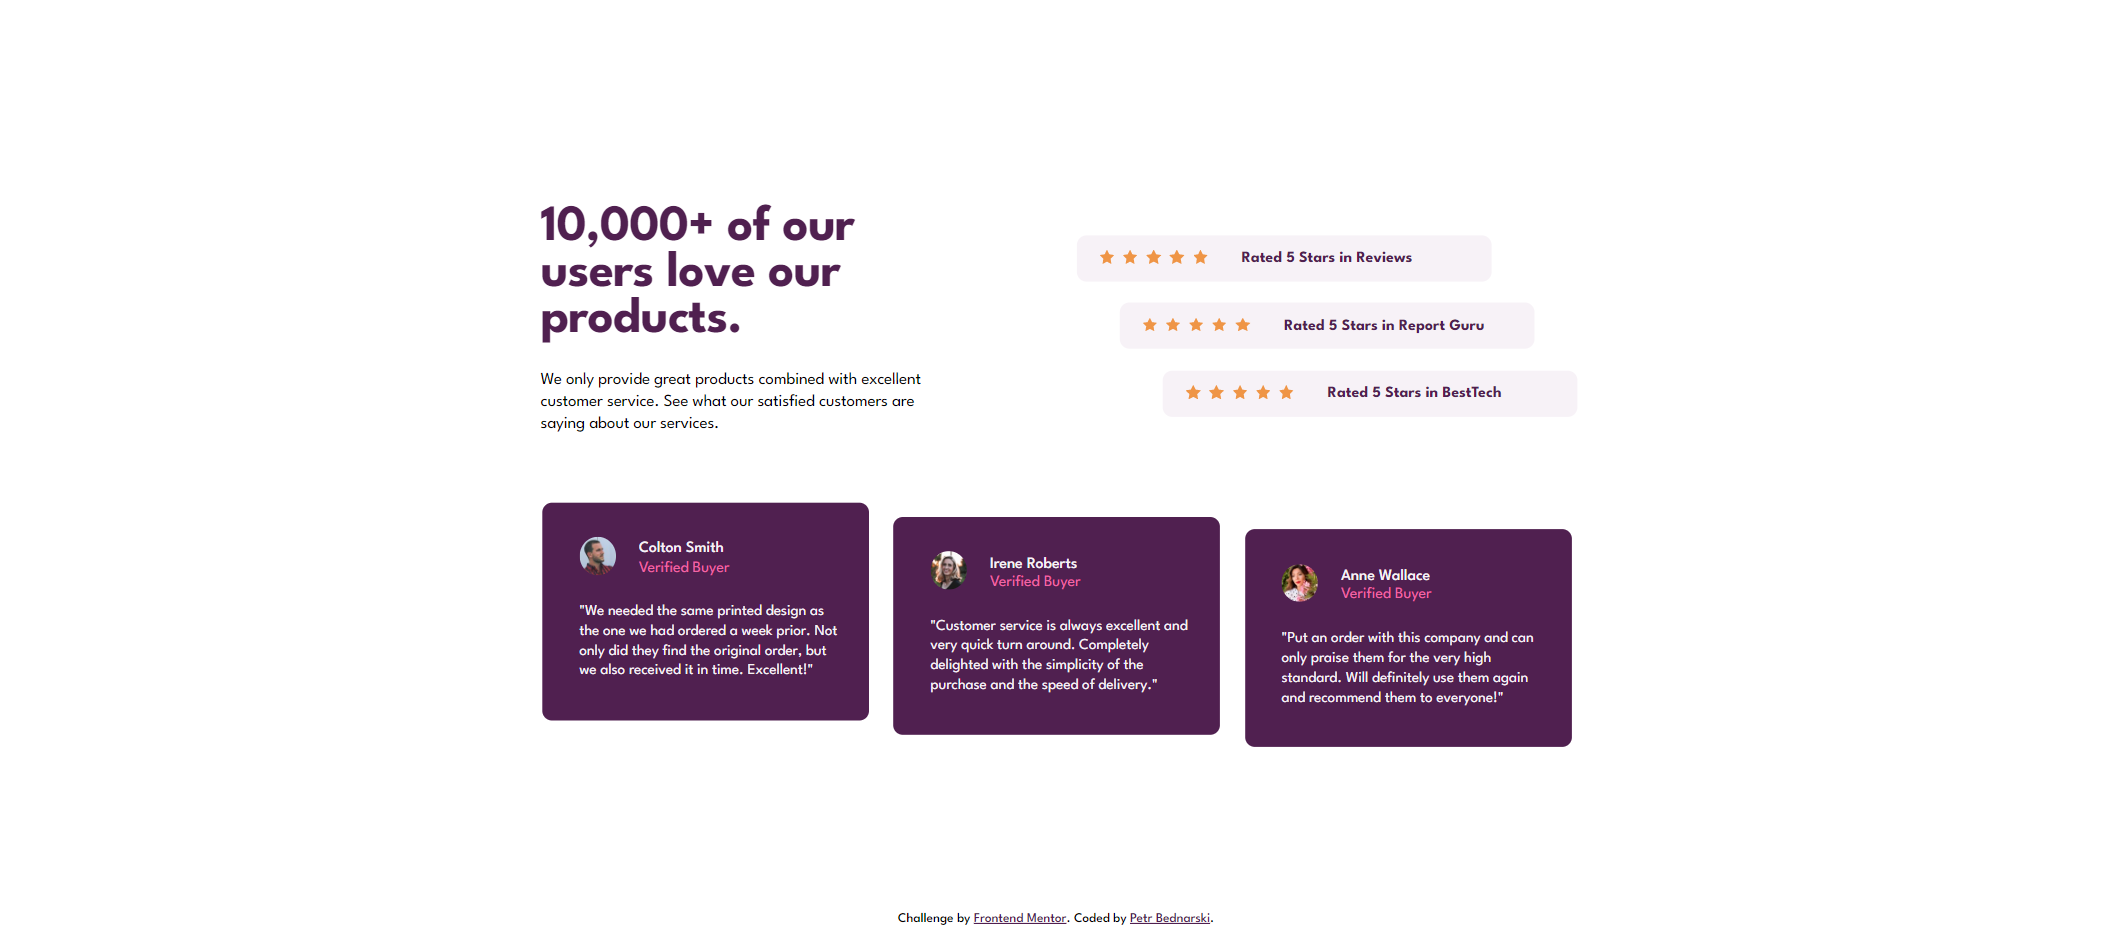
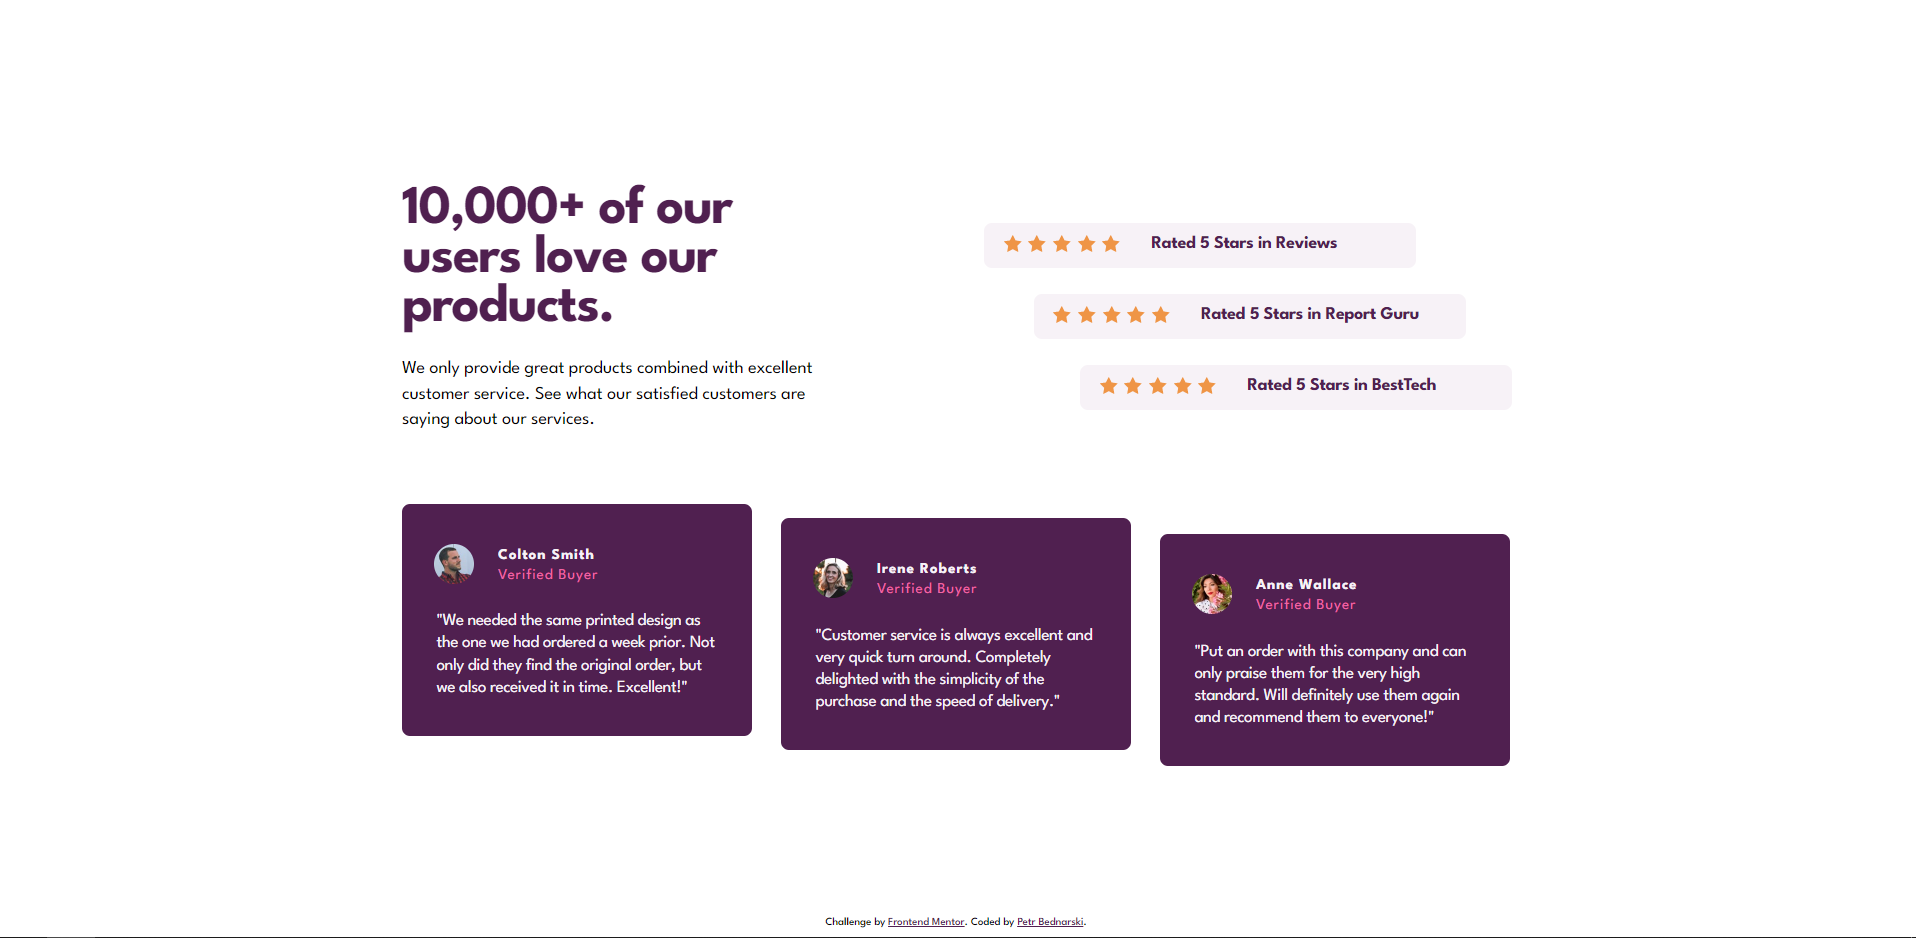
Add files via upload

diff --git a/style.css b/style.css
@@ -25,21 +25,30 @@ body {
   font-weight: 400;
   position: relative;
 }
+/* 
+.container::before {
+  background: url('design/desktop-design.jpg');
+  background-position: center;
+  content: '';
+  top: 0;
+  left: 0;
+  position: absolute;
+  z-index: -9;
+  height: 100%;
+  width: 100%;
+  opacity: 0.55;
+  border: 1px solid green;
+} */
 
 .container {
   width: 1108px;
   height: 581px;
-  position: relative;
-}
-
-.wrapper {
-  padding: 4rem 7.2rem;
+  position: absolute;
 }
 
 .top-part {
   display: grid;
   grid-template-columns: 1fr 1.5fr;
-  padding: 0.51rem 0.8rem;
 }
 
 .heading {
@@ -49,14 +58,16 @@ body {
 
 .heading h1 {
   color: var(--very-dark-magenta);
-  font-size: 42px;
-  margin-bottom: 1.3rem;
-  letter-spacing: -0.6px;
+  font-size: 55px;
+  margin-top: 0.5rem;
+  margin-bottom: 1.46rem;
+  letter-spacing: -1.5px;
+  line-height: 0.89;
 }
 
 .heading p {
-  font-size: 14px;
-  line-height: 1.31;
+  font-size: 18.2px;
+  line-height: 1.4;
   letter-spacing: -0.1px;
 }
 
@@ -65,79 +76,88 @@ body {
 }
 
 .rating-box {
-  width: 74%;
+  width: 70%;
   display: flex;
-  align-items: center;
+  align-items: flex-start;
   justify-content: left;
-  column-gap: 1.5rem;
-  font-size: 13px;
+  column-gap: 1.8rem;
+  font-size: 18px;
   background: var(--light-grayish-magenta);
   padding: 0.75rem 1.2rem;
   border-radius: 0.5rem;
-  margin-bottom: 1.12rem;
-  margin-left: 3.4rem;
+  margin-bottom: 1.65rem;
+  margin-left: 5.7rem;
 }
 
 .rating-box:nth-child(1) {
-  margin-top: 1.6rem;
+  margin-top: 2.8rem;
 }
 
 .rating-box:nth-child(2) {
-  margin-left: 5.6rem;
+  margin-left: 8.8rem;
 }
 
 .rating-box:nth-child(3) {
-  margin-left: 7.85rem;
+  margin-left: 11.7rem;
 }
 
 .rating-box span img {
-  width: 12px;
-  margin-right: 4px;
+  width: 18px;
+  margin-right: 2.2px;
 }
 
 .rating-box p {
   font-weight: 700;
   color: var(--very-dark-magenta);
+  letter-spacing: -0.4px;
 }
 
 .bottom-part {
   display: flex;
   margin-top: 3rem;
-  column-gap: 1rem;
   justify-content: space-between;
 }
 
 .testimonial-box {
-  padding: 1.78rem 1.5rem;
+  padding: 2.5rem 1.6rem;
   background-color: var(--very-dark-magenta);
   border-radius: 0.5rem;
-  width: 270px;
-  height: 180px;
+  width: 350px;
+  height: 232px;
   font-size: 13px;
 }
 
 .testimonial-box:nth-child(1) {
-  margin-left: 0.9rem;
-  margin-top: -0.2rem;
+  margin-top: 1.2rem;
 }
 .testimonial-box:nth-child(2) {
-  margin-top: 0.55rem;
+  margin-top: 2.1rem;
 }
 .testimonial-box:nth-child(3) {
-  margin-top: 1.2rem;
-  margin-right: 0.8rem;
+  margin-top: 3.1rem;
 }
 
 .testimonial-author {
   display: flex;
-  column-gap: 1.2rem;
-  margin-bottom: 1.4rem;
+  column-gap: 1.5rem;
+  margin-bottom: 1.65rem;
   margin-left: 0.4rem;
 }
 
 .testimonial-author-info {
   display: flex;
   flex-direction: column;
+  font-size: 15px;
+  letter-spacing: 1px;
+}
+
+.testmionial-author-name {
+  color: var(--light-grayish-magenta);
+  font-weight: 700;
+  margin: 4px 0 6px;
+}
+.testmionial-author-position {
+  color: var(--soft-pink);
 }
 
 .testimonial-text {
@@ -145,21 +165,15 @@ body {
   font-weight: 400;
   line-height: 1.3;
   margin-left: 0.4rem;
-  font-size: 12.5px;
-}
-
-.testmionial-author-name {
-  color: var(--light-grayish-magenta);
-  font-weight: 500;
-  margin: 4px 0;
-}
-.testmionial-author-position {
-  color: var(--soft-pink);
+  font-size: 17px;
+  padding-right: 0.3rem;
+  padding-left: 0.15rem;
+  letter-spacing: -0.3px;
 }
 
 .testimonial-author img {
   border-radius: 50%;
-  max-width: 30px;
+  max-width: 40px;
 }
 
 .attribution {
@@ -199,7 +213,9 @@ body {
 
   .rating-box {
     flex-direction: column;
+    align-items: center;
     width: 100%;
+    padding: 1rem;
   }
 
   .rating-box:nth-child(1),
@@ -215,7 +231,7 @@ body {
 
   .bottom-part {
     flex-direction: column;
-    width: 90%;
+    width: 100%;
     padding: 0;
     margin: 0 auto;
     justify-items: center;
@@ -223,6 +239,7 @@ body {
 
   .testimonial-box {
     width: 100%;
+    padding-bottom: 10rem;
   }
 
   .testimonial-box:nth-child(1),
@@ -230,6 +247,12 @@ body {
   .testimonial-box:nth-child(3) {
     margin-left: 0;
     margin-right: 0;
+  }
+
+  .testimonial-text {
+    font-weight: 400;
+    letter-spacing: 0;
+    font-size: 16px;
   }
 
   body {
